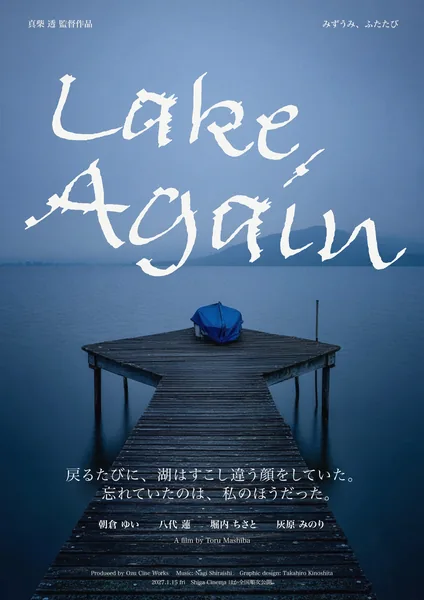
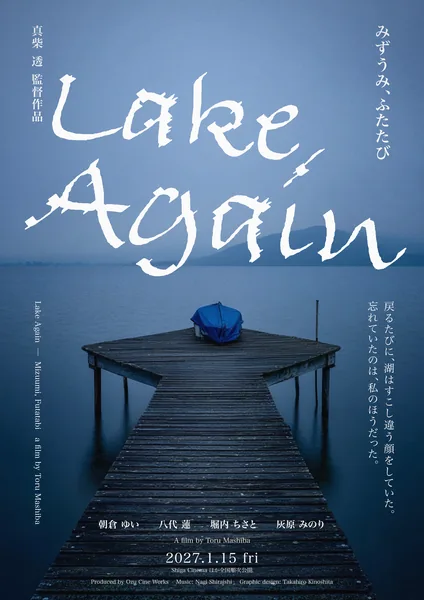
Lake Again のポスターを最新版（縦組み・題字の影なし）に差し替え（5か所・?v=20261011）
Claude-Session: https://claude.ai/code/session_01ACMyxW6X3UEWo7P8KbJSgx

diff --git a/index.html b/index.html
@@ -1877,7 +1877,7 @@
     @media (prefers-reduced-motion:reduce){.works-marquee .track{animation:none}.works-marquee{overflow-x:auto}}
   </style>
   <section class="works-marquee" aria-label="制作物">
-    <a href="taka/" class="track" style="text-decoration:none"><figure><img src="assets/img/marquee/img-poster-yurusanai.webp?v=20261010a" width="424" height="600" alt="木下スタジオ制作：映画ポスター「ゆるさない」" decoding="async"><figcaption>Poster</figcaption></figure><figure><img src="assets/img/marquee/img-poster-lake-again.webp?v=20261010a" width="424" height="600" alt="木下スタジオ制作：映画ポスター「Lake Again」" decoding="async"><figcaption>Poster</figcaption></figure><figure><img src="assets/img/marquee/img-poster-hajimarinoiro.webp" width="424" height="600" alt="木下スタジオ制作：映画ポスター「ハジマリノイロ」" decoding="async"><figcaption>Poster</figcaption></figure><figure><img src="assets/img/marquee/9C96D522-9757-448B-9BEA-A83E04468F14.webp" width="423" height="600" alt="木下スタジオ制作：フィルム写真 — 光とフレア" decoding="async"><figcaption>Photo</figcaption></figure><figure><img src="assets/img/marquee/img-poster-amberhour.webp" width="424" height="600" alt="木下スタジオ制作：映画ポスター「アンバーアワー」" decoding="async"><figcaption>Poster</figcaption></figure><figure class="nat"><img src="assets/img/marquee/advinder-logo.webp" width="424" height="600" alt="木下スタジオ制作：ADVINDER ロゴ" decoding="async"><figcaption>Logo</figcaption></figure><figure><img src="assets/img/marquee/img-graphic-natsunohi.webp" width="480" height="600" alt="木下スタジオ制作：コンセプトグラフィック「夏の日残像」" decoding="async"><figcaption>Graphic</figcaption></figure><figure><img src="assets/img/marquee/img-poster-scratch.webp" width="462" height="600" alt="木下スタジオ制作：映画ポスター「スクラッチ」" decoding="async"><figcaption>Poster</figcaption></figure><figure><img src="assets/img/marquee/img-poster-mshalo.webp?v=20260929" width="424" height="600" alt="木下スタジオ制作：映画ポスター「MS. HALO」" decoding="async"><figcaption>Poster</figcaption></figure><figure class="nat"><img src="assets/img/marquee/advinder-logo-poster.webp" width="424" height="600" alt="木下スタジオ制作：ADVINDER ポスター" decoding="async"><figcaption>Poster</figcaption></figure><figure class="nat"><img src="assets/img/marquee/orenihakankeinai.webp" width="600" height="600" alt="木下スタジオ制作：切り貼り「俺には関係ない」" decoding="async"><figcaption>Collage</figcaption></figure><figure class="nat"><img src="assets/img/marquee/koegakikoeteru.webp?v=20260928" width="600" height="600" alt="木下スタジオ制作：切り貼り「声が聞こえてる」" decoding="async"><figcaption>Collage</figcaption></figure><figure class="nat"><img src="assets/img/marquee/rescueme.webp?v=20261001" width="600" height="600" alt="木下スタジオ制作：切り貼り「RESCUE ME」" decoding="async"><figcaption>Collage</figcaption></figure><figure class="nat"><img src="assets/img/marquee/minamo.webp?v=20260928" width="600" height="600" alt="木下スタジオ制作：キービジュアル「みなも兄弟」" decoding="async"><figcaption>Key Visual</figcaption></figure><figure class="nat"><img src="assets/img/marquee/f299.webp" width="480" height="600" alt="木下スタジオ制作：プールサイド" decoding="async"><figcaption>Typography</figcaption></figure><figure class="nat"><img src="assets/img/marquee/99l_makafushigi_front.webp" width="600" height="600" alt="木下スタジオ制作：99LETTERS『Makafushigi』カセット" decoding="async"><figcaption>Music</figcaption></figure><figure class="nat"><img src="assets/img/marquee/f232.webp" width="480" height="600" alt="木下スタジオ制作：枡" decoding="async"><figcaption>Typography</figcaption></figure><figure aria-hidden="true"><img src="assets/img/marquee/img-poster-yurusanai.webp?v=20261010a" width="424" height="600" alt="" decoding="async"><figcaption>Poster</figcaption></figure><figure aria-hidden="true"><img src="assets/img/marquee/img-poster-lake-again.webp?v=20261010a" width="424" height="600" alt="" decoding="async"><figcaption>Poster</figcaption></figure><figure aria-hidden="true"><img src="assets/img/marquee/img-poster-hajimarinoiro.webp" width="424" height="600" alt="" decoding="async"><figcaption>Poster</figcaption></figure><figure aria-hidden="true"><img src="assets/img/marquee/9C96D522-9757-448B-9BEA-A83E04468F14.webp" width="423" height="600" alt="" decoding="async"><figcaption>Photo</figcaption></figure><figure aria-hidden="true"><img src="assets/img/marquee/img-poster-amberhour.webp" width="424" height="600" alt="" decoding="async"><figcaption>Poster</figcaption></figure><figure class="nat" aria-hidden="true"><img src="assets/img/marquee/advinder-logo.webp" width="424" height="600" alt="" decoding="async"><figcaption>Logo</figcaption></figure><figure aria-hidden="true"><img src="assets/img/marquee/img-graphic-natsunohi.webp" width="480" height="600" alt="" decoding="async"><figcaption>Graphic</figcaption></figure><figure aria-hidden="true"><img src="assets/img/marquee/img-poster-scratch.webp" width="462" height="600" alt="" decoding="async"><figcaption>Poster</figcaption></figure><figure aria-hidden="true"><img src="assets/img/marquee/img-poster-mshalo.webp?v=20260929" width="424" height="600" alt="" decoding="async"><figcaption>Poster</figcaption></figure><figure class="nat" aria-hidden="true"><img src="assets/img/marquee/advinder-logo-poster.webp" width="424" height="600" alt="" decoding="async"><figcaption>Poster</figcaption></figure><figure class="nat" aria-hidden="true"><img src="assets/img/marquee/orenihakankeinai.webp" width="600" height="600" alt="" decoding="async"><figcaption>Collage</figcaption></figure><figure class="nat" aria-hidden="true"><img src="assets/img/marquee/koegakikoeteru.webp?v=20260928" width="600" height="600" alt="" decoding="async"><figcaption>Collage</figcaption></figure><figure class="nat" aria-hidden="true"><img src="assets/img/marquee/rescueme.webp?v=20261001" width="600" height="600" alt="" decoding="async"><figcaption>Collage</figcaption></figure><figure class="nat" aria-hidden="true"><img src="assets/img/marquee/minamo.webp?v=20260928" width="600" height="600" alt="" decoding="async"><figcaption>Key Visual</figcaption></figure><figure class="nat" aria-hidden="true"><img src="assets/img/marquee/f299.webp" width="480" height="600" alt="" decoding="async"><figcaption>Typography</figcaption></figure><figure class="nat" aria-hidden="true"><img src="assets/img/marquee/99l_makafushigi_front.webp" width="600" height="600" alt="" decoding="async"><figcaption>Music</figcaption></figure><figure class="nat" aria-hidden="true"><img src="assets/img/marquee/f232.webp" width="480" height="600" alt="" decoding="async"><figcaption>Typography</figcaption></figure></a>
+    <a href="taka/" class="track" style="text-decoration:none"><figure><img src="assets/img/marquee/img-poster-yurusanai.webp?v=20261010a" width="424" height="600" alt="木下スタジオ制作：映画ポスター「ゆるさない」" decoding="async"><figcaption>Poster</figcaption></figure><figure><img src="assets/img/marquee/img-poster-lake-again.webp?v=20261011" width="424" height="600" alt="木下スタジオ制作：映画ポスター「Lake Again」" decoding="async"><figcaption>Poster</figcaption></figure><figure><img src="assets/img/marquee/img-poster-hajimarinoiro.webp" width="424" height="600" alt="木下スタジオ制作：映画ポスター「ハジマリノイロ」" decoding="async"><figcaption>Poster</figcaption></figure><figure><img src="assets/img/marquee/9C96D522-9757-448B-9BEA-A83E04468F14.webp" width="423" height="600" alt="木下スタジオ制作：フィルム写真 — 光とフレア" decoding="async"><figcaption>Photo</figcaption></figure><figure><img src="assets/img/marquee/img-poster-amberhour.webp" width="424" height="600" alt="木下スタジオ制作：映画ポスター「アンバーアワー」" decoding="async"><figcaption>Poster</figcaption></figure><figure class="nat"><img src="assets/img/marquee/advinder-logo.webp" width="424" height="600" alt="木下スタジオ制作：ADVINDER ロゴ" decoding="async"><figcaption>Logo</figcaption></figure><figure><img src="assets/img/marquee/img-graphic-natsunohi.webp" width="480" height="600" alt="木下スタジオ制作：コンセプトグラフィック「夏の日残像」" decoding="async"><figcaption>Graphic</figcaption></figure><figure><img src="assets/img/marquee/img-poster-scratch.webp" width="462" height="600" alt="木下スタジオ制作：映画ポスター「スクラッチ」" decoding="async"><figcaption>Poster</figcaption></figure><figure><img src="assets/img/marquee/img-poster-mshalo.webp?v=20260929" width="424" height="600" alt="木下スタジオ制作：映画ポスター「MS. HALO」" decoding="async"><figcaption>Poster</figcaption></figure><figure class="nat"><img src="assets/img/marquee/advinder-logo-poster.webp" width="424" height="600" alt="木下スタジオ制作：ADVINDER ポスター" decoding="async"><figcaption>Poster</figcaption></figure><figure class="nat"><img src="assets/img/marquee/orenihakankeinai.webp" width="600" height="600" alt="木下スタジオ制作：切り貼り「俺には関係ない」" decoding="async"><figcaption>Collage</figcaption></figure><figure class="nat"><img src="assets/img/marquee/koegakikoeteru.webp?v=20260928" width="600" height="600" alt="木下スタジオ制作：切り貼り「声が聞こえてる」" decoding="async"><figcaption>Collage</figcaption></figure><figure class="nat"><img src="assets/img/marquee/rescueme.webp?v=20261001" width="600" height="600" alt="木下スタジオ制作：切り貼り「RESCUE ME」" decoding="async"><figcaption>Collage</figcaption></figure><figure class="nat"><img src="assets/img/marquee/minamo.webp?v=20260928" width="600" height="600" alt="木下スタジオ制作：キービジュアル「みなも兄弟」" decoding="async"><figcaption>Key Visual</figcaption></figure><figure class="nat"><img src="assets/img/marquee/f299.webp" width="480" height="600" alt="木下スタジオ制作：プールサイド" decoding="async"><figcaption>Typography</figcaption></figure><figure class="nat"><img src="assets/img/marquee/99l_makafushigi_front.webp" width="600" height="600" alt="木下スタジオ制作：99LETTERS『Makafushigi』カセット" decoding="async"><figcaption>Music</figcaption></figure><figure class="nat"><img src="assets/img/marquee/f232.webp" width="480" height="600" alt="木下スタジオ制作：枡" decoding="async"><figcaption>Typography</figcaption></figure><figure aria-hidden="true"><img src="assets/img/marquee/img-poster-yurusanai.webp?v=20261010a" width="424" height="600" alt="" decoding="async"><figcaption>Poster</figcaption></figure><figure aria-hidden="true"><img src="assets/img/marquee/img-poster-lake-again.webp?v=20261011" width="424" height="600" alt="" decoding="async"><figcaption>Poster</figcaption></figure><figure aria-hidden="true"><img src="assets/img/marquee/img-poster-hajimarinoiro.webp" width="424" height="600" alt="" decoding="async"><figcaption>Poster</figcaption></figure><figure aria-hidden="true"><img src="assets/img/marquee/9C96D522-9757-448B-9BEA-A83E04468F14.webp" width="423" height="600" alt="" decoding="async"><figcaption>Photo</figcaption></figure><figure aria-hidden="true"><img src="assets/img/marquee/img-poster-amberhour.webp" width="424" height="600" alt="" decoding="async"><figcaption>Poster</figcaption></figure><figure class="nat" aria-hidden="true"><img src="assets/img/marquee/advinder-logo.webp" width="424" height="600" alt="" decoding="async"><figcaption>Logo</figcaption></figure><figure aria-hidden="true"><img src="assets/img/marquee/img-graphic-natsunohi.webp" width="480" height="600" alt="" decoding="async"><figcaption>Graphic</figcaption></figure><figure aria-hidden="true"><img src="assets/img/marquee/img-poster-scratch.webp" width="462" height="600" alt="" decoding="async"><figcaption>Poster</figcaption></figure><figure aria-hidden="true"><img src="assets/img/marquee/img-poster-mshalo.webp?v=20260929" width="424" height="600" alt="" decoding="async"><figcaption>Poster</figcaption></figure><figure class="nat" aria-hidden="true"><img src="assets/img/marquee/advinder-logo-poster.webp" width="424" height="600" alt="" decoding="async"><figcaption>Poster</figcaption></figure><figure class="nat" aria-hidden="true"><img src="assets/img/marquee/orenihakankeinai.webp" width="600" height="600" alt="" decoding="async"><figcaption>Collage</figcaption></figure><figure class="nat" aria-hidden="true"><img src="assets/img/marquee/koegakikoeteru.webp?v=20260928" width="600" height="600" alt="" decoding="async"><figcaption>Collage</figcaption></figure><figure class="nat" aria-hidden="true"><img src="assets/img/marquee/rescueme.webp?v=20261001" width="600" height="600" alt="" decoding="async"><figcaption>Collage</figcaption></figure><figure class="nat" aria-hidden="true"><img src="assets/img/marquee/minamo.webp?v=20260928" width="600" height="600" alt="" decoding="async"><figcaption>Key Visual</figcaption></figure><figure class="nat" aria-hidden="true"><img src="assets/img/marquee/f299.webp" width="480" height="600" alt="" decoding="async"><figcaption>Typography</figcaption></figure><figure class="nat" aria-hidden="true"><img src="assets/img/marquee/99l_makafushigi_front.webp" width="600" height="600" alt="" decoding="async"><figcaption>Music</figcaption></figure><figure class="nat" aria-hidden="true"><img src="assets/img/marquee/f232.webp" width="480" height="600" alt="" decoding="async"><figcaption>Typography</figcaption></figure></a>
     <p class="cap">Poster · Photo · Graphic · Web · UI</p>
   </section>
 

diff --git a/company-profile/case-study-deck.html b/company-profile/case-study-deck.html
@@ -333,7 +333,7 @@ footer a:hover{color:var(--ink)}
     <div class="strip-wrap reveal">
     <div class="hero-strip" id="strip">
       <figure class="t1"><img src="../assets/img/img-poster-yurusanai.webp?v=20261010a" alt="木下スタジオ制作：映画ポスター「ゆるさない」" loading="eager"><figcaption>Poster</figcaption></figure>
-      <figure class="t1"><img src="../assets/img/img-poster-lake-again.webp?v=20261010a" alt="木下スタジオ制作：映画ポスター「Lake Again」" loading="eager"><figcaption>Poster</figcaption></figure>
+      <figure class="t1"><img src="../assets/img/img-poster-lake-again.webp?v=20261011" alt="木下スタジオ制作：映画ポスター「Lake Again」" loading="eager"><figcaption>Poster</figcaption></figure>
       <figure class="t1"><img src="../assets/img/img-poster-hajimarinoiro.webp" alt="木下スタジオ制作：映画ポスター「ハジマリノイロ」" loading="eager"><figcaption>Poster</figcaption></figure>
       <figure class="t1"><img src="../assets/_orphans/9C96D522-9757-448B-9BEA-A83E04468F14.webp" alt="木下スタジオ：フィルム写真 — ライトリーク・光とフレア" fetchpriority="high"><figcaption>Photo</figcaption></figure>
       <figure class="t1"><img src="../assets/img/img-poster-amberhour.webp" alt="木下スタジオ制作：映画ポスター「アンバーアワー」" loading="lazy"><figcaption>Poster</figcaption></figure>

diff --git a/art-direction.html b/art-direction.html
@@ -339,7 +339,7 @@
   <div class="ad-strip-wrap">
     <div class="ad-strip" id="ad-strip">
       <figure><img src="assets/img/img-poster-yurusanai.webp?v=20261010a" alt="木下スタジオ制作：映画ポスター「ゆるさない」" loading="eager"><figcaption>Poster</figcaption></figure>
-      <figure><img src="assets/img/img-poster-lake-again.webp?v=20261010a" alt="木下スタジオ制作：映画ポスター「Lake Again」" loading="eager"><figcaption>Poster</figcaption></figure>
+      <figure><img src="assets/img/img-poster-lake-again.webp?v=20261011" alt="木下スタジオ制作：映画ポスター「Lake Again」" loading="eager"><figcaption>Poster</figcaption></figure>
       <figure><img src="assets/img/img-poster-hajimarinoiro.webp" alt="木下スタジオ制作：映画ポスター「ハジマリノイロ」" loading="eager"><figcaption>Poster</figcaption></figure>
       <figure><img src="assets/_orphans/9C96D522-9757-448B-9BEA-A83E04468F14.webp" alt="木下スタジオ：フィルム写真 — ライトリーク・光とフレア" loading="lazy"><figcaption>Photo</figcaption></figure>
       <figure><img src="assets/img/img-poster-amberhour.webp?v=20260925a" alt="木下スタジオ制作：映画ポスター「アンバーアワー」" loading="lazy"><figcaption>Poster</figcaption></figure>

diff --git a/taka/index.html b/taka/index.html
@@ -524,7 +524,7 @@ main.list{max-width:1440px;margin:0 auto;padding-block:120px 160px}
     <span class="cap"><b>ゆるさない</b><span class="mono">CINEMA POSTER</span><span class="mono r">AD / DESIGN / TITLE</span></span>
   </div>
   <div class="w" data-k="poster" data-tags="daiji">
-    <img src="img/lake_again.webp?v=20261010a" alt="Lake Again みずうみ、ふたたび" >
+    <img src="img/lake_again.webp?v=20261011" alt="Lake Again みずうみ、ふたたび" >
     <span class="cap"><b>Lake Again</b><span class="mono">CINEMA POSTER</span><span class="mono r">AD / DESIGN / TITLE</span></span>
   </div>
   <a href="/flyer-poster-work.html" class="w flip" data-k="poster" data-tags="daiji">

diff --git a/flyer-poster-work.html b/flyer-poster-work.html
@@ -397,7 +397,7 @@
       <div class="work-cat-label">Self-Initiated / Key Visual</div>
     </div>
     <div class="work-visual">
-      <img src="assets/img/img-poster-lake-again.webp?v=20261010a"
+      <img src="assets/img/img-poster-lake-again.webp?v=20261011"
            alt="木下スタジオ（木下貴博 / 滋賀）自主制作：映画ポスター「Lake Again みずうみ、ふたたび」— 霧の湖と桟橋に、白い手書きの欧文題字を置いたキービジュアル"
            class="work-img" width="900" height="1272" loading="lazy">
       <p class="work-desc">霧の湖に、かすれた字を浮かべた。</p>
